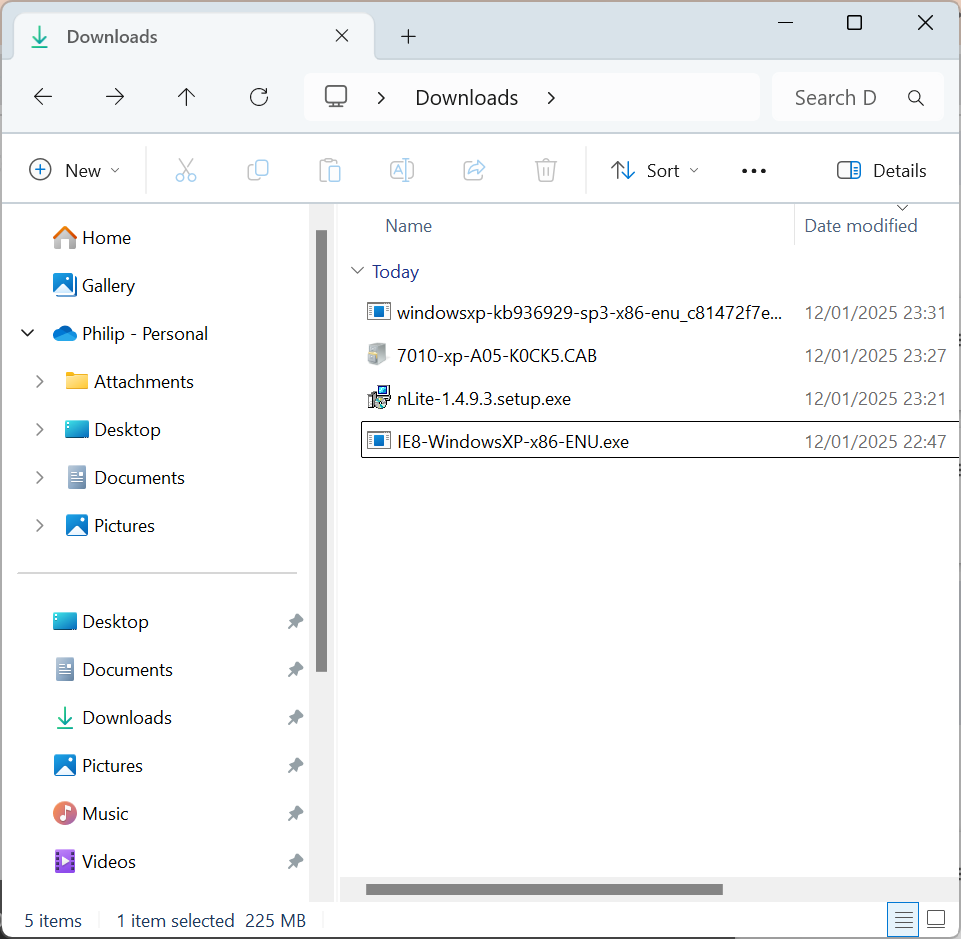
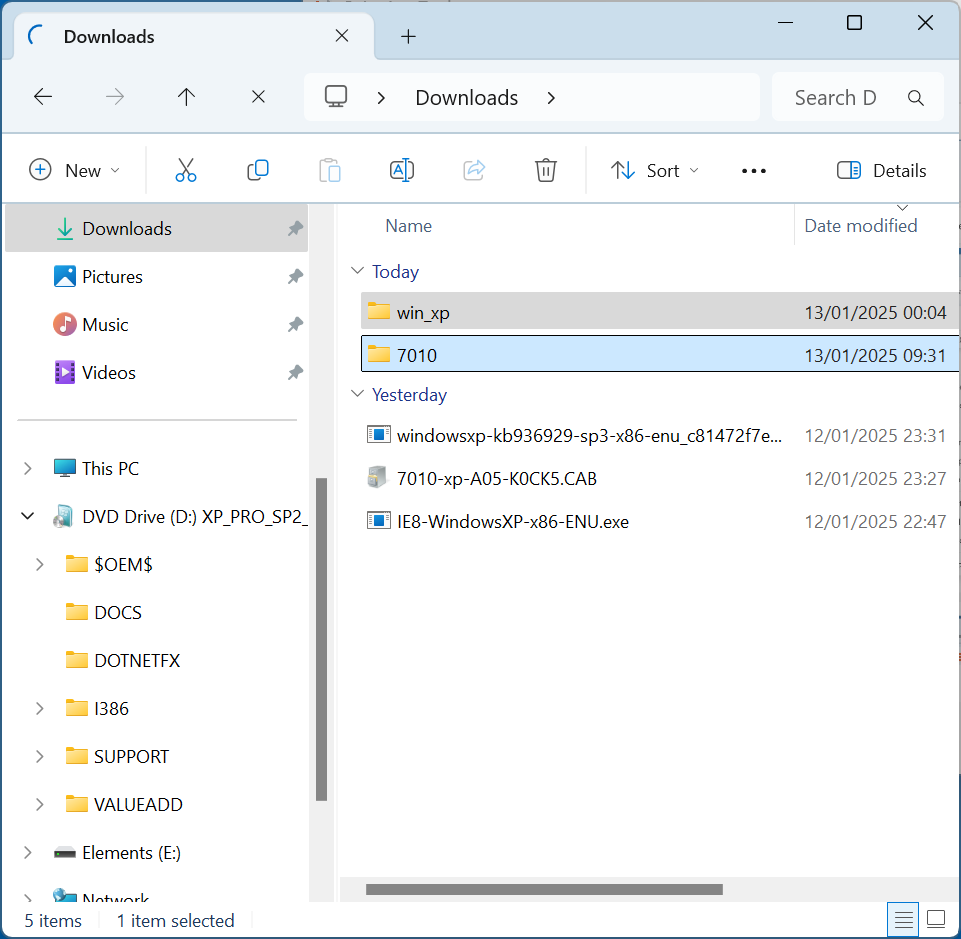
Initial Commit

diff --git a/slipstreaming/readme.md b/slipstreaming/readme.md
@@ -57,20 +57,15 @@ Download this file, it contains all the drivers required for slipstream:
 
 <img src='./images/img_004.png' alt='img_004' width='600'/>
 
-
+Once downloaded the file needs to be extracted:
 
 <img src='./images/img_005.png' alt='img_005' width='600'/>
 
-Righ up the Windows Terminal and input:
+Right click the Start Button and select Terminal:
 
-<img src='./images/img_006.png' alt='img_006' width='600'/>
-<img src='./images/img_007.png' alt='img_007' width='600'/>
-<img src='./images/img_008.png' alt='img_008' width='600'/>
-<img src='./images/img_009.png' alt='img_009' width='600'/>
-<img src='./images/img_010.png' alt='img_010' width='600'/>
-<img src='./images/img_011.png' alt='img_011' width='600'/>
-<img src='./images/img_012.png' alt='img_012' width='600'/>
+<img src='./images/img_006.png' alt='img_006' width='200'/>
 
+To extract the `.CAB` file input:
 
 ```
 expand -F:* Downloads\7010-xp-A05-K0CK5.CAB \Downloads
@@ -78,46 +73,98 @@ expand -F:* Downloads\7010-xp-A05-K0CK5.CAB \Downloads
 
 Replacing `Downloads\7010-xp-A05-K0CK5.CAB` with the path to your `.CAB` file.
 
-
-
-
-
-
-
-
-
-
 To extract the CAB file on Windows XP [7zip](https://7-zip.org/download.html) is required.
 
+<img src='./images/img_007.png' alt='img_007' width='600'/>
 
+The `.CAB` file will be extracted, close the Windows Terminal:
 
+<img src='./images/img_008.png' alt='img_008' width='600'/>
 
+The extracted folder indicates the model number:
 
+<img src='./images/img_009.png' alt='img_009' width='600'/>
 
+The operating system `xp`:
 
-## NLite
+<img src='./images/img_010.png' alt='img_010' width='600'/>
 
-nLite can be downloaded from its
+The architecture `x86`:
+
+<img src='./images/img_011.png' alt='img_011' width='600'/>
+
+Subfolders are available for each category of driver:
+
+<img src='./images/img_012.png' alt='img_012' width='600'/>
+
+## Windows XP Folder
+
+In Downloads. Create a new folder called `win_xp`:
+
+<img src='./images/img_013.png' alt='img_013' width='600'/>
+
+Open up the Windows XP Reinstallation CD/DVD in Windows Explorer:
+
+<img src='./images/img_014.png' alt='img_014' width='600'/>
+
+Copy its contents:
+
+<img src='./images/img_015.png' alt='img_015' width='600'/>
+
+To the `win_xp` folder:
+
+<img src='./images/img_016.png' alt='img_016' width='600'/>
+
+It should look like the following:
+
+<img src='./images/img_017.png' alt='img_017' width='600'/>
+
+## nLite
+
+nLite can be downloaded from:
 
 * [nLite](https://www.nliteos.com/download.html)
 
+Launch the setup:
 
-
-
-<img src='./images/img_013.png' alt='img_013' width='600'/>
-<img src='./images/img_014.png' alt='img_014' width='600'/>
-<img src='./images/img_015.png' alt='img_015' width='600'/>
-<img src='./images/img_016.png' alt='img_016' width='600'/>
-<img src='./images/img_017.png' alt='img_017' width='600'/>
 <img src='./images/img_018.png' alt='img_018' width='600'/>
+
+Select `OK`:
+
 <img src='./images/img_019.png' alt='img_019' width='600'/>
+
+Select Next:
+
 <img src='./images/img_020.png' alt='img_020' width='600'/>
+
+Accept the License Agreement and select Next:
+
 <img src='./images/img_021.png' alt='img_021' width='600'/>
+
+Select Next:
+
 <img src='./images/img_022.png' alt='img_022' width='600'/>
+
+Select Next:
+
 <img src='./images/img_023.png' alt='img_023' width='600'/>
+
+Select Next:
+
 <img src='./images/img_024.png' alt='img_024' width='600'/>
+
+Select Finish:
+
 <img src='./images/img_025.png' alt='img_025' width='600'/>
+
+## Slipstreaming
+
+Launch nLite and select Next:
+
 <img src='./images/img_026.png' alt='img_026' width='600'/>
+
+Select the `win_xp` folder:
+
 <img src='./images/img_027.png' alt='img_027' width='600'/>
 <img src='./images/img_028.png' alt='img_028' width='600'/>
 <img src='./images/img_029.png' alt='img_029' width='600'/>
